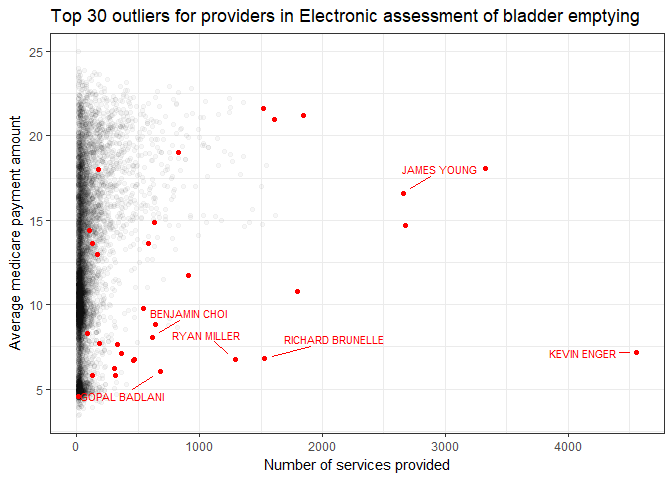
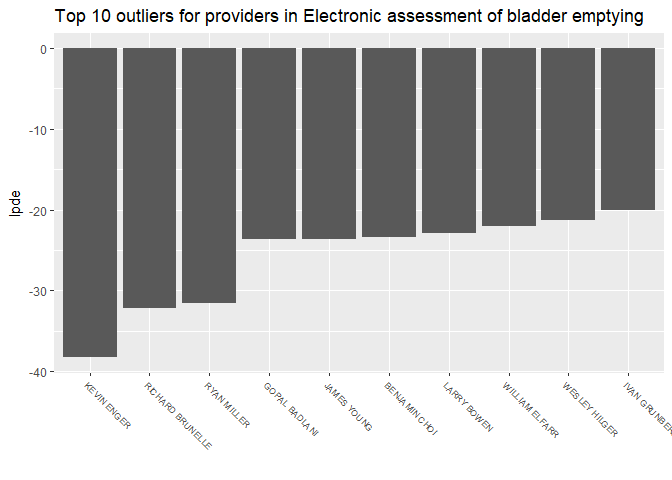
Added more plots

diff --git a/medicare_detection/medicare_anomaly_detection.md b/medicare_detection/medicare_anomaly_detection.md
@@ -12,6 +12,8 @@ Chris Oh
     -   [Data prepartion](#data-prepartion)
     -   [Outlier score computation](#outlier-score-computation)
     -   [Visualizing the results](#visualizing-the-results)
+        -   [Visualization by different scores (highest to lowest)](#visualization-by-different-scores-highest-to-lowest)
+        -   [By the two most relevant variables](#by-the-two-most-relevant-variables)
 -   [Possible Application](#possible-application)
 -   [Challenges / Ideas](#challenges-ideas)
     -   [Model parameters](#model-parameters)
@@ -21,6 +23,8 @@ Chris Oh
 # Libraries
 library(tidyverse)
 library(ldbod)
+library(knitr)
+library(ggrepel)
 ```
 
 Motivation
@@ -182,7 +186,7 @@ apply_ldbod <- function(df) {
   # attach the comuted scores
   df <-
     df %>% 
-    cbind(map_df(scores, as.integer))
+    cbind(map_df(scores, as.numeric))
 }
 
 medi_test <-
@@ -192,20 +196,12 @@ medi_test <-
 
 ### Visualizing the results
 
-The two most relevant variables for outlier detection are:
-
--   `LINE_SRVC_CNT` - for practitioners with excessively high number of treatments
--   `AVERAGE_SUBMITTED_CHRG_AMT` - for practioners who might be over-billing for the treatment category compared to others
-
-The plots below show the top 30 outliers, 5 of which are labelled, as indicated by:
-
--   local parametric density estimate (LPDE) - for `HCPCS_CODE` 51741
--   robust kernel density factor (RKOF) - for `HCPCS_CODE` 10060
+Now that we have computed the 9 different outlier scores within each `HCPCS_CODE` group, let's visualize some of the results.
 
 ``` r
 # Get all the variables in the original dataset
-# Not that each row is distinct for each practitioner (NPI)
-# / procedure (HCPCS_CODE)
+# Note that each row is distinct for each practitioner (NPI) and
+# procedure (HCPCS_CODE)
 medi_test <-
   medi_test %>% 
   unnest() %>% 
@@ -213,7 +209,7 @@ medi_test <-
   left_join(medicare, by = c("NPI", "HCPCS_CODE"))
 ```
 
-As can be seen, the algorithms seemed to have done a fairly good job of identifying the outliers.
+#### Visualization by different scores (highest to lowest)
 
 ``` r
 # Labelling for top outliers
@@ -232,7 +228,63 @@ get_top_n <- function(df, filter_var, which, number, wght) {
     filter(UQ(filter_var) %in% which) %>%
     top_n(n = number, wt = !! wght)
 }
+```
 
+``` r
+medi_test %>% 
+  get_top_n(HCPCS_CODE, "51741", -10, lpde) %>%
+  mutate(org_name = label_outlier(NPPES_PROVIDER_FIRST_NAME, NPPES_PROVIDER_LAST_ORG_NAME)) %>% 
+  ggplot(aes(fct_reorder(org_name, lpde), lpde)) +
+  geom_col() +
+  labs(
+    title = str_c("Top 10 outliers for providers in ", 
+                  medi_test %>% 
+                  filter(HCPCS_CODE %in% "51741") %>%
+                  pull(HCPCS_DESCRIPTION) %>% 
+                  unique()
+            ),
+    x = ""
+  ) +
+  theme(axis.text.x = element_text(angle = -45, hjust = 0, size = 7))
+```
+
+![](medicare_anomaly_detection_files/figure-markdown_github/unnamed-chunk-11-1.png)
+
+``` r
+medi_test %>% 
+  get_top_n(HCPCS_CODE, "10060", 10, rkof) %>%
+  mutate(org_name = label_outlier(NPPES_PROVIDER_FIRST_NAME, NPPES_PROVIDER_LAST_ORG_NAME)) %>% 
+  ggplot(aes(fct_reorder(org_name, -rkof), rkof)) +
+  geom_col() +
+  labs(
+    title = str_c("Top 10 outliers for providers in ", 
+                  medi_test %>% 
+                  filter(HCPCS_CODE %in% "10060") %>%
+                  pull(HCPCS_DESCRIPTION) %>% 
+                  unique()
+            ),
+    x = ""
+  ) +
+  theme(axis.text.x = element_text(angle = -45, hjust = 0, size = 7))
+```
+
+![](medicare_anomaly_detection_files/figure-markdown_github/unnamed-chunk-11-2.png)
+
+#### By the two most relevant variables
+
+-   `LINE_SRVC_CNT` - for practitioners with excessively high number of treatments
+-   `AVERAGE_SUBMITTED_CHRG_AMT` - for practioners who might be over-billing for the treatment category compared to others
+
+Therefore, these two variables were chosen for the visualization although the actual scores computed take into account all 5 variables ().
+
+The plots below show the top 30 outliers, 5 of which are labelled, as indicated by:
+
+-   local parametric density estimate (LPDE) - for `HCPCS_CODE` 51741
+-   robust kernel density factor (RKOF) - for `HCPCS_CODE` 10060
+
+As can be seen, the algorithms seemed to have done a fairly good job of identifying the outliers.
+
+``` r
 medi_test %>% 
   filter(HCPCS_CODE %in% "51741") %>% 
   ggplot(aes(LINE_SRVC_CNT, AVERAGE_MEDICARE_PAYMENT_AMT)) +
@@ -267,7 +319,7 @@ medi_test %>%
   theme_bw()
 ```
 
-![](medicare_anomaly_detection_files/figure-markdown_github/unnamed-chunk-10-1.png)
+![](medicare_anomaly_detection_files/figure-markdown_github/unnamed-chunk-12-1.png)
 
 ``` r
 medi_test %>% 
@@ -304,7 +356,7 @@ medi_test %>%
   theme_bw()
 ```
 
-![](medicare_anomaly_detection_files/figure-markdown_github/unnamed-chunk-10-2.png)
+![](medicare_anomaly_detection_files/figure-markdown_github/unnamed-chunk-12-2.png)
 
 Possible Application
 --------------------
